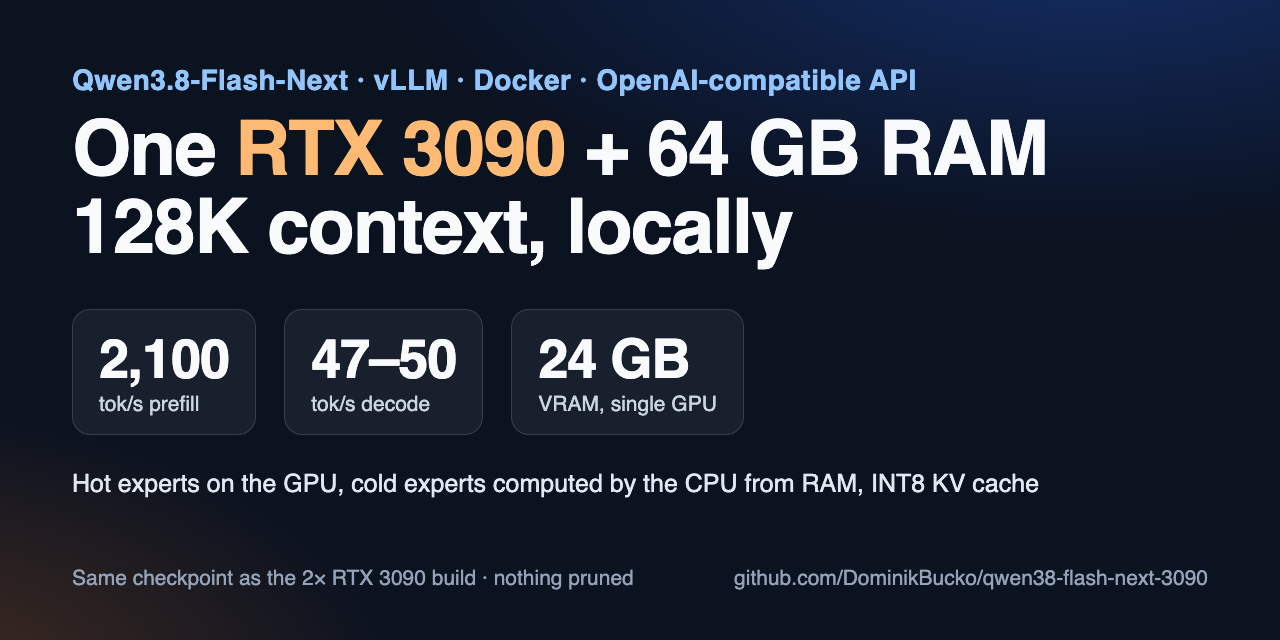
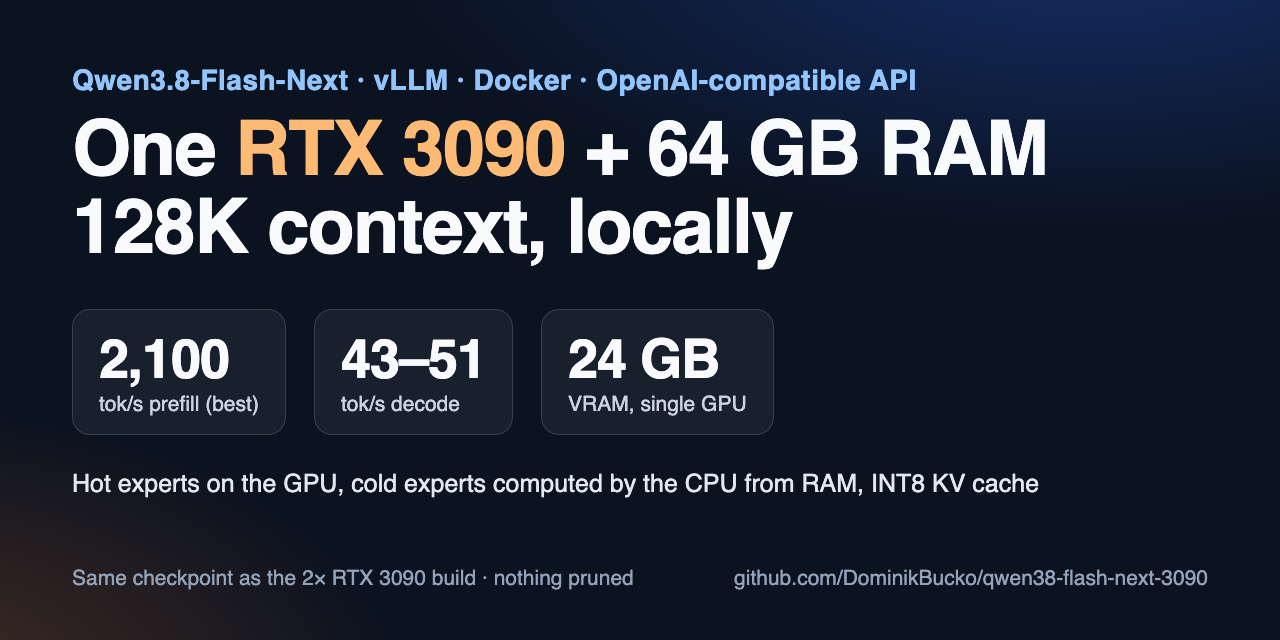
Add the published-image check and the v0.1.0 image digest
The GHCR image pulled by digest reproduced the release on 32 cores (32K prompt
2,219 tok/s, decode 43-51 tok/s, smoke tests pass); its 131K and 8K requests
took the slow prefill path, so the results now show both runs and the known
issue covers 32 cores too.

Changed region(s): [[0.4062, 0.5312, 0.5938, 0.6562], [0.2188, 0.5312, 0.375, 0.5938], [0.1562, 0.625, 0.375, 0.6562]]

diff --git a/README.md b/README.md
@@ -1,8 +1,8 @@
 # Qwen3.8-Flash-Next on a single RTX 3090 (24 GB) + 64 GB RAM
 
-<h2 align="center">2,100 tok/s prefill · 47–50 tok/s decode · 128K context</h2>
+<h2 align="center">2,100 tok/s prefill · 47 tok/s decode · 128K context</h2>
 <p align="center"><strong>One RTX 3090 24 GB · 64 GB system RAM · vLLM · OpenAI-compatible API · Docker</strong></p>
-<p align="center">A 131,099-token prompt reaches the first token in 62 s (2,106 tok/s), then decodes at 47.4 tok/s.</p>
+<p align="center">One request, best of 2: a 131,099-token prompt reaches the first token in 62 s (2,106 tok/s), then decodes at 47.4 tok/s.</p>
 <p align="center">
   <a href="https://huggingface.co/albucino/Qwen3.8-Flash-Next-W4A16-FP8PLE"><strong>Download the checkpoint</strong></a> ·
   <a href="#quick-start">Quick start</a> ·
@@ -24,27 +24,28 @@ hardware. Nothing is pruned or requantized.
 ## Results
 
 One RTX 3090, the machine limited to **64 GB of RAM** (the server container to 56 GiB), release image, default
-profile, one request at a time, greedy decoding with MTP speculative decoding, on a fresh server start:
+profile, one request at a time, greedy decoding with MTP speculative decoding. Two runs on fresh server starts,
+one with the image built locally and one with the published image pulled by digest:
 
 | Request (input + output tokens) | First token | Prefill | Decode |
 |---|---:|---:|---:|
-| 131,099 + 512 | 62.2 s | **2,106 tok/s** | **47.4 tok/s** |
-| 32,799 + 512 | 15.3 s | 2,141 tok/s | 50.3 tok/s |
-| 8,218 + 1,024 | 5.2 s | 1,570 tok/s | 49.1 tok/s |
-| 4,127 + 256, first request after start | 3.3 s | 1,258 tok/s | 47.8 tok/s |
+| 131,099 + 512 | 62.2 / 90.3 s | **2,106** / 1,451 tok/s | **47.4** / 43.3 tok/s |
+| 32,799 + 512 | 15.3 / 14.8 s | 2,141 / 2,219 tok/s | 50.3 / 49.5 tok/s |
+| 8,218 + 1,024 | 5.2 / 5.7 s | 1,570 / 1,452 tok/s | 49.1 / 48.5 tok/s |
+| 4,127 + 256, first request after start | 3.3 / 3.4 s | 1,258 / 1,231 tok/s | 47.8 / 50.8 tok/s |
 
 ![Prefill and decode speed on one RTX 3090 with 64 GB RAM](docs/images/results.svg)
 
-GPU memory peaked at 23.4 GB and no request was preempted. Prefill runs at ~2,100 tok/s for prompts of 32K
-tokens and more; some requests take a slower path (see [known issue](benchmarks/2026-09-30/README.md#known-issue-occasional-slow-prefill-steps)),
-like the 8K request above (4.0–4.3 s to the first token in about half of all runs).
+GPU memory peaked at 23.4 GB and no request was preempted. Prefill runs at 2,100–2,200 tok/s when the expert
+reads from NVMe overlap the GPU work; some requests take a slower path, ~1,450 tok/s (the second 131K run and
+both 8K requests above). See the [known issue](benchmarks/2026-09-30/README.md#known-issue-occasional-slow-prefill-steps).
 
 **Decode depends mainly on RAM bandwidth**, because the CPU computes the cold experts. With the server restricted
 to part of the 32-core benchmark CPU:
 
 | CPU cores available | Like | Prefill, 131K prompt | Decode |
 |---|---|---:|---:|
-| 32 (4 CCDs) | the benchmark workstation | 2,106 tok/s | 47–50 tok/s |
+| 32 (4 CCDs), 2 runs | the benchmark workstation | 1,451–2,106 tok/s | 43–51 tok/s |
 | 16 (2 CCDs), 2 runs | Ryzen 9 7950X / 9950X | 1,452–2,104 tok/s | 39–47 tok/s |
 | 8 (1 CCD), earlier image | Ryzen 7 7800X3D / 9700X | 2,149 tok/s | 34–36 tok/s |
 
@@ -86,9 +87,15 @@ make serve
 
 `make serve` runs `scripts/preflight.sh` first, which checks the GPU, RAM, CPU, driver and disk. The server is
 ready after about 4 minutes (the first start compiles kernels and takes longer) and listens on
-`http://127.0.0.1:8000/v1`. To skip the local build, use the published image
-(`IMAGE=ghcr.io/dominikbucko/qwen38-flash-next-3090:<tag> make serve`, pinned by the digest in the
-[release notes](https://github.com/DominikBucko/qwen38-flash-next-3090/releases)).
+`http://127.0.0.1:8000/v1`.
+
+To skip the local build, use the published v0.1.0 image (weights stay a separate download):
+
+```bash
+IMAGE=ghcr.io/dominikbucko/qwen38-flash-next-3090@sha256:7f176605b59c462af21b1b62fd854f9f3cca96e3d11a295581297483d45490a3 make serve
+```
+
+Later releases list their digests in the [release notes](https://github.com/DominikBucko/qwen38-flash-next-3090/releases).
 
 Check it and measure your machine:
 

diff --git a/benchmarks/2026-09-30/README.md b/benchmarks/2026-09-30/README.md
@@ -1,6 +1,6 @@
 # One RTX 3090 + 64 GB RAM: benchmarks, September 30, 2026
 
-**2,106 tok/s prefill on a 131K-token prompt and 47–50 tok/s decode**, with the default
+**Up to 2,106 tok/s prefill on a 131K-token prompt and 43–51 tok/s decode**, with the default
 [`configs/3090-64gb-128k.env`](../../configs/3090-64gb-128k.env) profile on one RTX 3090 and a machine limited to
 64 GB of RAM. The images were built with [`docker/Dockerfile`](../../docker/Dockerfile) from this tree and started
 with [`scripts/docker_serve.sh`](../../scripts/docker_serve.sh).
@@ -26,14 +26,18 @@ runs. No request was preempted.
 
 ## Results, release image
 
-32 cores (the whole benchmark CPU; automatic CPU pool: 24 threads):
+32 cores (the whole benchmark CPU; automatic CPU pool: 24 threads). Run 1 used the image built locally from this
+tree, run 2 the published image `ghcr.io/dominikbucko/qwen38-flash-next-3090@sha256:7f176605…` pulled by digest
+(its overlay differs from run 1's only in one code comment):
 
 | Request (input + output) | First token | Prefill tok/s | Decode tok/s |
 |---|---:|---:|---:|
-| 131,099 + 512 | 62.2 s | **2,106** | **47.4** |
-| 32,799 + 512 | 15.3 s | 2,141 | 50.3 |
-| 8,218 + 1,024 | 5.2 s | 1,570 | 49.1 |
-| 4,127 + 256, first request after the start | 3.3 s | 1,258 | 47.8 |
+| 131,099 + 512 | 62.2 / 90.3 s | **2,106** / 1,451 | **47.4** / 43.3 |
+| 32,799 + 512 | 15.3 / 14.8 s | 2,141 / 2,219 | 50.3 / 49.5 |
+| 8,218 + 1,024 | 5.2 / 5.7 s | 1,570 / 1,452 | 49.1 / 48.5 |
+| 4,127 + 256, first request after the start | 3.3 / 3.4 s | 1,258 / 1,231 | 47.8 / 50.8 |
+
+Run 2's 131K request and both 8K requests took the slow prefill path (see the known issue below).
 
 Peaks: GPU memory 23,369 MiB of 24,576, GPU 67–68 °C, container memory at its 56.0 GiB limit (52–53 GiB
 anonymous, of which the expert arena is 46.0 GiB on huge pages; the rest is page cache), CPU Tctl 86–88 °C.
@@ -51,7 +55,8 @@ desktop CPUs with DDR5 have more bandwidth per core, so real desktops may do bet
 
 | Container CPUs | Like | CPU pool | 4K + 256 | 32K + 512 | 131K + 512 | 8K + 1,024 |
 |---|---|---|---|---|---|---|
-| 32 cores, 4 CCDs | the benchmark machine | 24 threads | 1,258 / 47.8 | 2,141 / 50.3 | 2,106 / 47.4 | 1,570 / 49.1 |
+| 32 cores, 4 CCDs, run 1 | the benchmark machine | 24 threads | 1,258 / 47.8 | 2,141 / 50.3 | 2,106 / 47.4 | 1,570 / 49.1 |
+| 32 cores, 4 CCDs, run 2 (published image) | | 24 threads | 1,231 / 50.8 | 2,219 / 49.5 | 1,451 / 43.3 | 1,452 / 48.5 |
 | 16 cores, 2 CCDs (`0-15,32-47`), run 1 | Ryzen 9 7950X / 9950X | 12 threads | 1,200 / 45.2 | 2,192 / 44.9 | 1,452 / 39.3 | 2,026 / 46.2 |
 | 16 cores, 2 CCDs, run 2 | | 12 threads | 1,268 / 42.1 | 2,102 / 44.9 | 2,104 / 40.5 | 1,419 / 46.8 |
 | 8 cores, 1 CCD (`0-7,32-39`), earlier image | Ryzen 7 7800X3D / 9700X | 6 threads | 1,108 / 35.5 | 2,133 / 35.5 | 2,149 / 33.6 | 1,951 / 34.6 |
@@ -63,9 +68,10 @@ stays at ~2,100 tok/s when it takes the fast path.
 
 A prefill chunk of 8,192 tokens normally takes ~3.7 s. In some requests every chunk takes ~5.5 s instead: the
 NVMe reads of the experts that are not in RAM and the GPU work stop overlapping. It hits the single-chunk 8K
-request in about half of all runs (5.2–6.0 s instead of 4.0–4.3 s to the first token). On the 16-core proxy it
-hit the 131K request in 5 of 6 runs without the prefill event markers (`QWEN38_STREAM_MARKERS`) and in 1 of 6
-with them, so the release turns them on. Moving the NVMe reads out of Python (one GIL-free C++ call per layer),
+request in about half of all runs (5.2–6.0 s instead of 4.0–4.3 s to the first token), and the 131K request in
+some runs on every configuration tried. On the 16-core proxy it hit the 131K request in 5 of 6 runs without the
+prefill event markers (`QWEN38_STREAM_MARKERS`) and in 1 of 6 with them, so the release turns them on; on 32
+cores the release image hit it in 1 of 2 runs. Moving the NVMe reads out of Python (one GIL-free C++ call per layer),
 deeper read-ahead buffers and limiting how far the host runs ahead of the GPU did not remove it. The cause is
 still open; reports from other machines are welcome.
 

diff --git a/docs/faq.md b/docs/faq.md
@@ -21,9 +21,10 @@ the [hardware report form](https://github.com/DominikBucko/qwen38-flash-next-309
 
 ### How fast is it?
 
-On the benchmark machine (limited to 64 GB of RAM), a 131,072-token prompt prefills at about 2,100 tokens per
-second (62 s to the first token), and decode runs at 47–50 tokens per second. With 16 or 8 cores of the same CPU,
-decode drops to about 45 and 35 tok/s. See the [README](../README.md#results) and the
+On the benchmark machine (limited to 64 GB of RAM), a 131,072-token prompt prefills at 1,450–2,100 tokens per
+second (62–90 s to the first token, depending on a [known issue](../benchmarks/2026-09-30/README.md#known-issue-occasional-slow-prefill-steps)),
+and decode runs at 43–51 tokens per second. With 16 or 8 cores of the same CPU, decode drops to about 45 and 35
+tok/s. See the [README](../README.md#results) and the
 [benchmark report](../benchmarks/2026-09-30/README.md). Decode depends mostly on your RAM bandwidth.
 
 ### Which CPU do I need?

diff --git a/docs/how-it-works.md b/docs/how-it-works.md
@@ -88,8 +88,8 @@ tool calling and reasoning parsers. What differs:
 | KV cache | BF16 | INT8 per token and head |
 | PLE table | In RAM | On NVMe |
 | Context | 135,168 tokens | 135,168 tokens |
-| Prefill, 131K prompt | 3,029 tok/s | 2,106 tok/s |
-| Decode | ~110 tok/s | 47–50 tok/s |
+| Prefill, 131K prompt | 3,029 tok/s | 1,451–2,106 tok/s |
+| Decode | ~110 tok/s | 43–51 tok/s |
 
 ## Numerical checks
 
